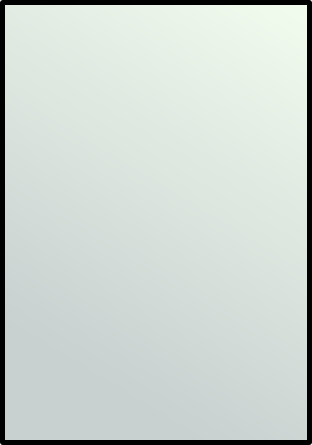
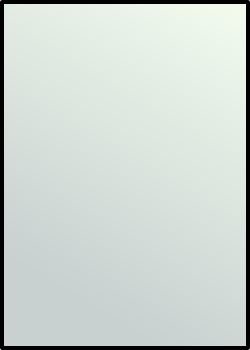
deckmaster now has the correct dimensions

diff --git a/progenitus/db/pics.py b/progenitus/db/pics.py
@@ -62,10 +62,11 @@ class PicFactory(object):
 	def _update(self, cardid, width):
 		"""Update the entry at cardid"""
 		pixbuf = get(cardid)
-		zoom = math.ceil(width) * (1. / pixbuf.get_width())
+		width = math.ceil(width)
+		zoom = width * (1. / pixbuf.get_width())
 		surface, w, h = surface_from_pixbuf(pixbuf, zoom)
-		assert(w == int(math.ceil(width))) # might fail due to flop errors
-		self._map[cardid] = surface, w, datetime.datetime.now()
+		#assert(w == int(width)) # might fail due to flop errors
+		self._map[cardid] = surface, int(width), datetime.datetime.now()
 	
 	def get(self, cardid, width):
 		"""Get the scaled cairo surface for a card"""
